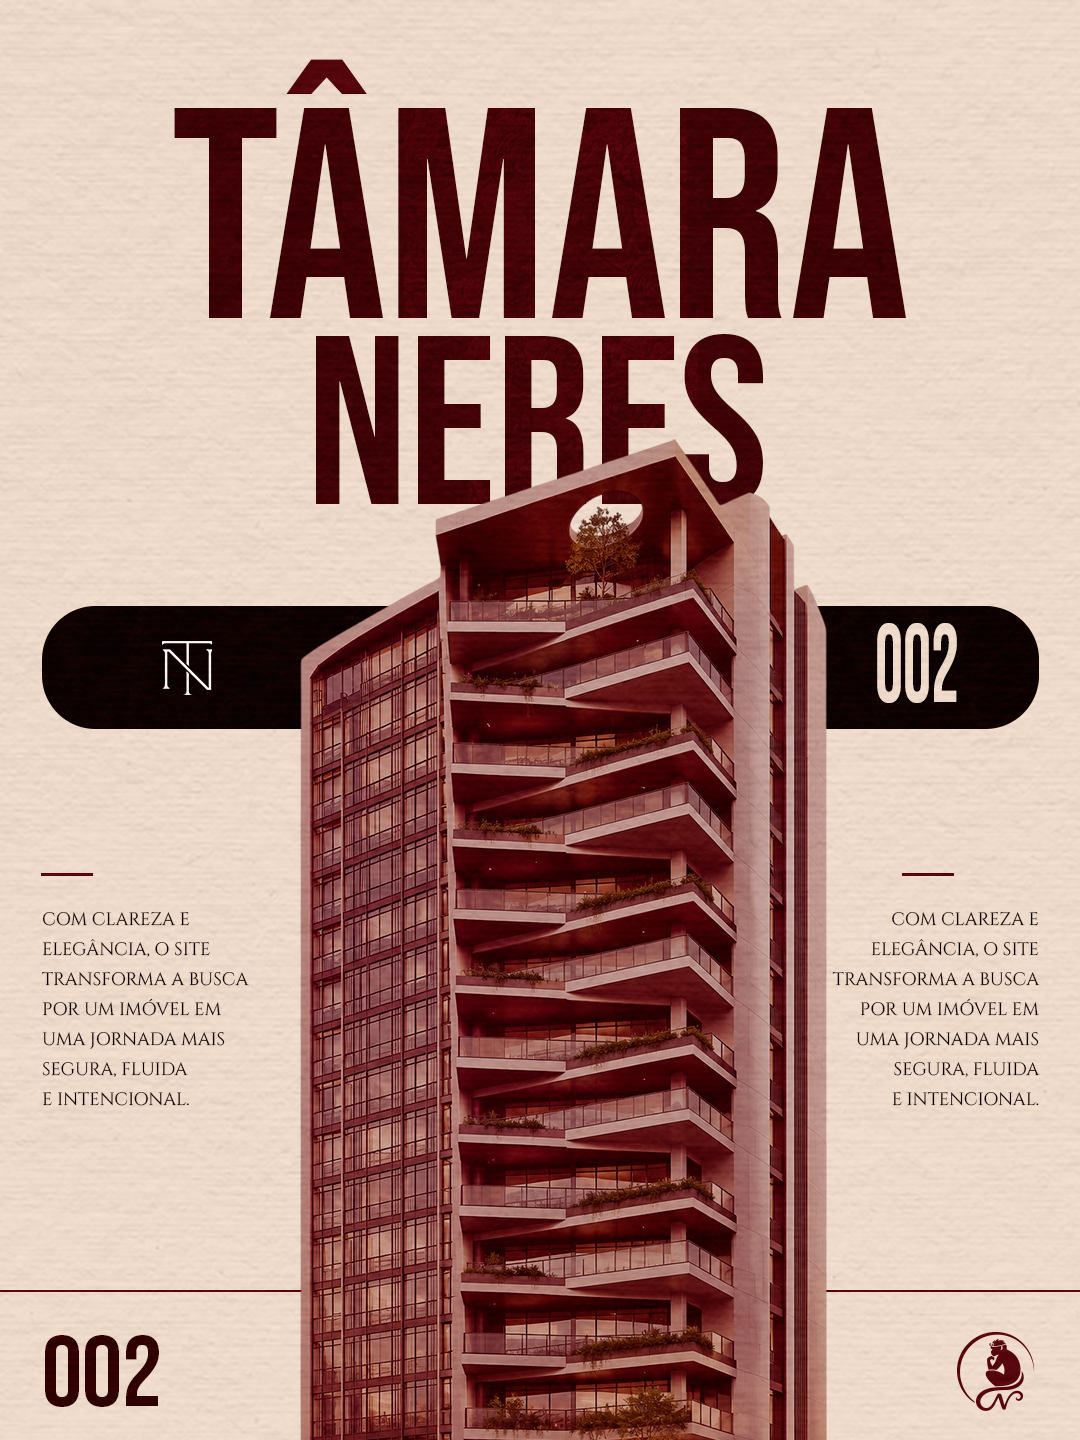
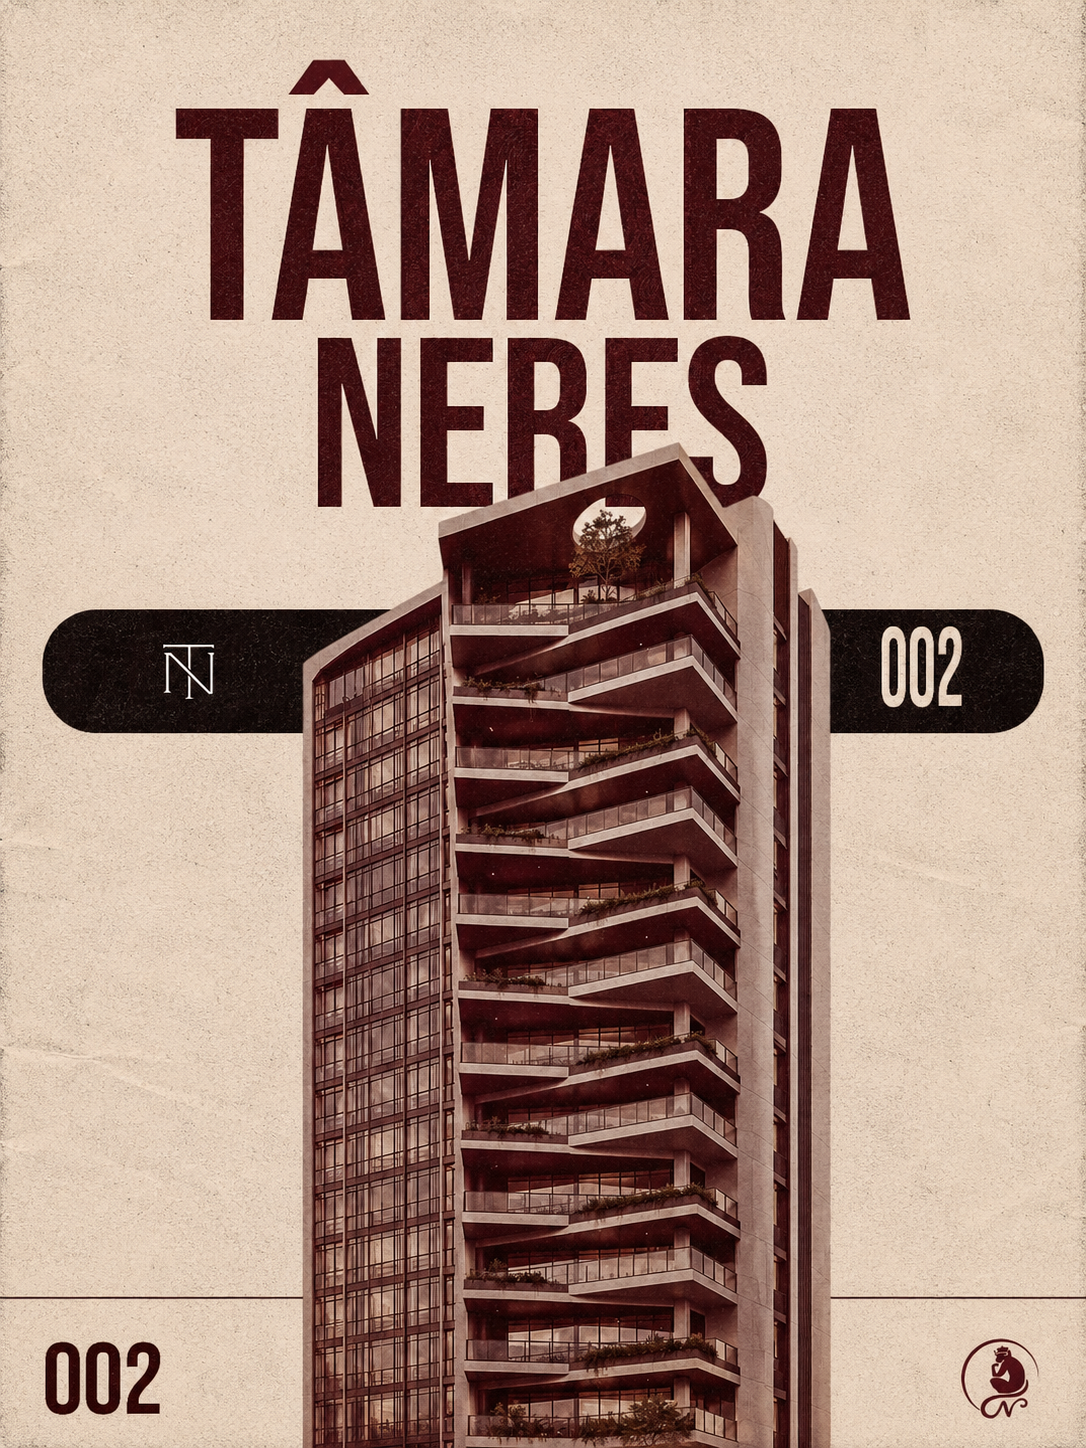
correção de imagens, adicionando projeto psmunnin e corrigindo detalhes dos projetos

diff --git a/src/content/projects/tamara-imoveis.md b/src/content/projects/tamara-imoveis.md
@@ -2,11 +2,11 @@
 volume: "002"
 title: "Tâmara Neres"
 summary: "Site imobiliário com apresentação premium de empreendimentos em Belo Horizonte e foco em captação de leads."
-role: ["Web Design", "Front-end"]
+role: ["Web Design", "Front-end", "Database"]
 year: "2026"
 accentColor: "#8a3b2e"
 cover: "../../assets/projects/tamara-imoveis.png"
-coverAlt: "Capa provisória do projeto Tâmara Imóveis — placeholder, substituir pela capa real"
+coverAlt: "Capa do projeto Tâmara Imóveis "
 featured: true
 status: "completed"
 order: 2
@@ -16,6 +16,6 @@ previewMode: "live"
 
 ---
 
-<!-- Conteúdo de case a ser preenchido pelo cliente. -->
+<!-- Conteúdo de case -->
 
-Projeto em construção. Substituir por texto real do case.
+O objetivo deste projeto foi aumentar a visibilidade da corretora e destacá-la no meio imobiliário à partir do visual premium do site.

diff --git a/src/content/projects/francino-coifas.md b/src/content/projects/francino-coifas.md
@@ -4,7 +4,7 @@ title: "Francino Coifas"
 summary: "Identidade e site institucional para marca de coifas e acabamentos, com tipografia monogramada e paleta minimalista."
 role: ["Web Design", "Direção de Arte"]
 year: "2026"
-accentColor: "#1c1810"
+accentColor: "#083e4e"
 cover: "../../assets/projects/francino-coifas.jpeg"
 coverAlt: "Capa provisória do projeto Francino Coifas — placeholder, substituir pela capa real"
 featured: true
@@ -15,6 +15,6 @@ url: "https://francinocalhas.com.br/"
 previewMode: "live"
 ---
 
-<!-- Conteúdo de case a ser preenchido pelo cliente. -->
+<!-- Conteúdo de case  -->
 
-Projeto em construção. Substituir por texto real do case.
+Projeto voltado para fábrica de coifas, rufos, calhas, etc.

diff --git a/src/content/projects/psmunnin.md b/src/content/projects/psmunnin.md
@@ -1,0 +1,14 @@
+---
+volume: "005"
+title: "PSmunnin"
+summary: "Sistema de prospecção inteligente para web designers."
+role: ["Web Design", "Prospecção"]
+year: "2026"
+accentColor: "#c37a53"
+cover: "../../assets/projects/psmunnin_previa.png"
+coverAlt: "Capa provisória do projeto PSmunnin"
+featured: true
+status: "preview"
+order: 5
+
+---
